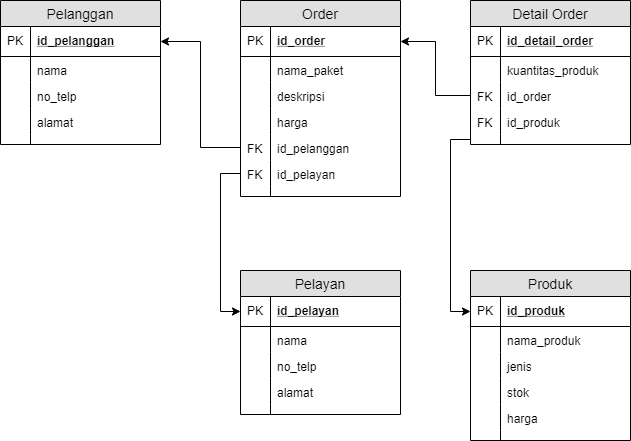
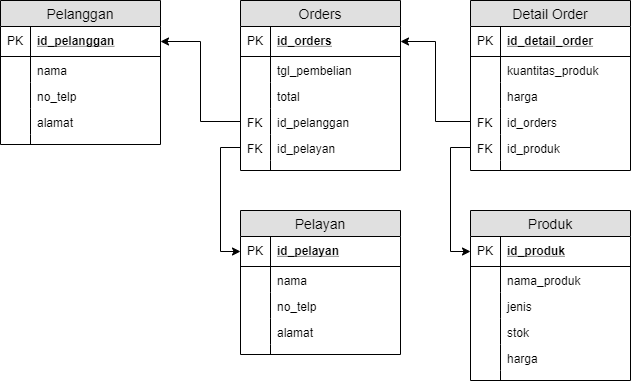
add table init

diff --git a/src/yez/chicken/management/DBManager.java b/src/yez/chicken/management/DBManager.java
@@ -4,30 +4,21 @@ import java.io.File;
 
 public class DBManager
 {
-    boolean isDBExist = false;
-    String dbName = "YEZ.db";
+    public Connection conn = null;
+    public Statement stmt = null;
+    
+    private boolean isDBExist = false;
+    private String dbName = "YEZ.db";
     
     public void ConnectDB()
     {
-        Connection conn = null;
-        Statement stmt = null;
-        File file = new File(dbName);
-        
-        if(file.exists())
-        {
-            System.out.println("Database already exist!");
-            isDBExist = true;
-        }
-        else
-            isDBExist = false;
-
-        
         try
         {
             Class.forName("org.sqlite.JDBC");
             conn = DriverManager.getConnection("jdbc:sqlite:YEZ.db");
 
-            makeTables(conn, stmt);
+            initTables();
+            addCustomer("ivan", "1234", "tubais");
         }catch(Exception e)
         {
             System.err.println(e.getClass().getName() + ": " + e.getMessage());
@@ -37,49 +28,106 @@ public class DBManager
         System.out.println("Opened database susccesfully!");
     }
     
-    private void makeTables(Connection conn, Statement stmt) throws Exception
+    // Database table initialization
+    private void initTables() throws SQLException
     {
         stmt = conn.createStatement();
         String sql = "CREATE TABLE IF NOT EXISTS PELANGGAN " +
-                        "(ID_PELANGGAN  INTEGER PRIMARY KEY AUTOINCREMENT NOT NULL," +
-                        " NAMA          TEXT                              NOT NULL," +
-                        " NO_TELP       CHAR(12)                                  ," +
-                        " ADDRESS       CHAR(50)                                  )";
+                     "(ID_PELANGGAN  INTEGER PRIMARY KEY AUTOINCREMENT NOT NULL," +
+                     " NAMA          TEXT                              NOT NULL," +
+                     " NO_TELP       CHAR(12)                                  ," +
+                     " ALAMAT        CHAR(50)                                  )";
         stmt.executeUpdate(sql);
         
-        sql =   "CREATE TABLE IF NOT EXISTS PELAYAN " +
-                "(ID_PELAYAN    INTEGER PRIMARY KEY AUTOINCREMENT NOT NULL," +
-                " NAMA          TEXT                              NOT NULL," +
-                " NO_TELP       CHAR(12)                                  ," +
-                " ADDRESS       CHAR(50)                                  )";
+        sql = "CREATE TABLE IF NOT EXISTS PELAYAN " +
+              "(ID_PELAYAN    INTEGER PRIMARY KEY AUTOINCREMENT NOT NULL," +
+              " NAMA          TEXT                              NOT NULL," +
+              " NO_TELP       CHAR(12)                                  ," +
+              " ALAMAT        CHAR(50)                                  )";
         stmt.executeUpdate(sql);
         
-        sql =   "CREATE TABLE IF NOT EXISTS PRODUK " +
-                "(ID_PRODUK     INTEGER PRIMARY KEY AUTOINCREMENT NOT NULL," +
-                " NAMA_PRODUK   TEXT                              NOT NULL," +
-                " JENIS         CHAR(12)                          NOT NULL," +
-                " STOK          INTEGER                           NOT NULL," +
-                " HARGA         INTEGER                           NOT NULL)";
+        sql = "CREATE TABLE IF NOT EXISTS PRODUK " +
+              "(ID_PRODUK     INTEGER PRIMARY KEY AUTOINCREMENT NOT NULL," +
+              " NAMA_PRODUK   TEXT                              NOT NULL," +
+              " JENIS         CHAR(12)                          NOT NULL," +
+              " STOK          INTEGER                           NOT NULL," +
+              " HARGA         INTEGER                           NOT NULL)";
         stmt.executeUpdate(sql);
         
-        sql =   "CREATE TABLE IF NOT EXISTS ORDERS " +
-                "(ID_ORDERS     INTEGER PRIMARY KEY AUTOINCREMENT NOT NULL," +
-                " NAMA_PAKET    TEXT                              NOT NULL," +
-                " DESKRIPSI     TEXT                              NOT NULL," +
-                " HARGA         INTEGER                           NOT NULL," +
-                " ID_PELANGGAN  INTEGER                           NOT NULL," +
-                " ID_PELAYAN  INTEGER                           NOT NULL," +
-                " FOREIGN KEY(ID_PELANGGAN)   REFERENCES PELANGGAN(ID_PELANGGAN)," +
-                " FOREIGN KEY(ID_PELAYAN)     REFERENCES PELAYAN(ID_PELAYAN))";
+        sql = "CREATE TABLE IF NOT EXISTS ORDERS " +
+              "(ID_ORDERS     INTEGER PRIMARY KEY AUTOINCREMENT NOT NULL," +
+              " TGL_PEMBELIAN DATE                              NOT NULL," +
+              " TOTAL         INTEGER                           NOT NULL," +
+              " ID_PELANGGAN  INTEGER                           NOT NULL," +
+              " ID_PELAYAN  INTEGER                           NOT NULL," +
+              " FOREIGN KEY(ID_PELANGGAN)   REFERENCES PELANGGAN(ID_PELANGGAN)," +
+              " FOREIGN KEY(ID_PELAYAN)     REFERENCES PELAYAN(ID_PELAYAN))";
         stmt.executeUpdate(sql);
         
-        sql =   "CREATE TABLE IF NOT EXISTS DETAIL_ORDER " +
-                "(ID_DETAIL_ORDERS     INTEGER PRIMARY KEY AUTOINCREMENT NOT NULL," +
-                " KUANTITAS_PRODUK     INTEGER                           NOT NULL," +
-                " ID_ORDERS            INTEGER                           NOT NULL," +
-                " ID_PRODUK            INTEGER                           NOT NULL," +
-                " FOREIGN KEY(ID_ORDERS)   REFERENCES ORDERS(ID_ORDERS)," +
-                " FOREIGN KEY(ID_PRODUK)   REFERENCES PRODUK(ID_PRODUK))";
+        sql = "CREATE TABLE IF NOT EXISTS DETAIL_ORDER " +
+              "(ID_DETAIL_ORDERS     INTEGER PRIMARY KEY AUTOINCREMENT NOT NULL," +
+              " KUANTITAS_PRODUK     INTEGER                           NOT NULL," +
+              " HARGA                INTEGER                           NOT NULL," +
+              " ID_ORDERS            INTEGER                           NOT NULL," +
+              " ID_PRODUK            INTEGER                           NOT NULL," +
+              " FOREIGN KEY(ID_ORDERS)   REFERENCES ORDERS(ID_ORDERS)," +
+              " FOREIGN KEY(ID_PRODUK)   REFERENCES PRODUK(ID_PRODUK))";
         stmt.executeUpdate(sql);
+        
+        // PRODUK COLUMNS ----
+        
+        sql = "INSERT OR REPLACE INTO PRODUK" +
+              "(ID_PRODUK, NAMA_PRODUK, JENIS, STOK, HARGA)" +
+              "VALUES (1, 'Nasi Putih', 'Makanan', 25, 2000)";
+        stmt.executeUpdate(sql);
+        
+        sql = "INSERT OR REPLACE INTO PRODUK" +
+              "(ID_PRODUK, NAMA_PRODUK, JENIS, STOK, HARGA)" +
+              "VALUES (2, 'Ayam Bakar Paha', 'Makanan', 12, 8000)";
+        stmt.executeUpdate(sql);
+        
+        sql = "INSERT OR REPLACE INTO PRODUK" +
+              "(ID_PRODUK, NAMA_PRODUK, JENIS, STOK, HARGA)" +
+              "VALUES (3, 'Ayam Goreng Paha', 'Makanan', 4, 8000)";
+        stmt.executeUpdate(sql);
+        
+        sql = "INSERT OR REPLACE INTO PRODUK" +
+              "(ID_PRODUK, NAMA_PRODUK, JENIS, STOK, HARGA)" +
+              "VALUES (4, 'Ayam Bakar Dada', 'Makanan', 16, 10000)";
+        stmt.executeUpdate(sql);
+        
+        sql = "INSERT OR REPLACE INTO PRODUK" +
+              "(ID_PRODUK, NAMA_PRODUK, JENIS, STOK, HARGA)" +
+              "VALUES (5, 'Ayam Goren Dada', 'Makanan', 13, 10000)";
+        stmt.executeUpdate(sql);
+        
+        sql = "INSERT OR REPLACE INTO PRODUK" +
+              "(ID_PRODUK, NAMA_PRODUK, JENIS, STOK, HARGA)" +
+              "VALUES (6, 'Teh Manis', 'Minuman', 7, 3000)";
+        stmt.executeUpdate(sql);
+        
+        sql = "INSERT OR REPLACE INTO PRODUK" +
+              "(ID_PRODUK, NAMA_PRODUK, JENIS, STOK, HARGA)" +
+              "VALUES (7, 'Nutrisasri', 'Minuman', 12, 3000)";
+        stmt.executeUpdate(sql);
+    }
+    
+    private void addCustomer(String nama, String telp, String alamat) throws SQLException
+    {
+        stmt = conn.createStatement();
+        
+        String sql = "INSERT INTO PELANGGAN " +
+                     "(NAMA, NO_TELP, ALAMAT) " +
+                     "VALUES ('" + nama + "', '" + telp + "', '" + alamat + "')";
+        stmt.executeUpdate(sql);
+    }
+    
+    private void addOrders() throws SQLException
+    {
+        stmt = conn.createStatement();
+        
+        String sql = "INSERT INTO ORDERS " +
+                     " (TGL_PEMBELIAN, TOTAL, ID_PELANGGAN, ID_PELAYAN) " +
+                     " VALUES ()";
     }
 }

diff --git a/src/yez/chicken/management/YEZChickenManagement.java b/src/yez/chicken/management/YEZChickenManagement.java
@@ -1,4 +1,5 @@
 package yez.chicken.management;
+import java.io.IOException;
 import java.util.Scanner;
 
 public class YEZChickenManagement
@@ -31,6 +32,7 @@ public class YEZChickenManagement
                     }
                     break;
                 case 2:
+                    menu.clearScreen();
                     menu.productMenu();
                     opt = scn.nextInt();
                     

diff --git a/src/yez/chicken/management/MenuOption.java b/src/yez/chicken/management/MenuOption.java
@@ -1,5 +1,7 @@
 package yez.chicken.management;
 
+import java.io.IOException;
+
 public class MenuOption
 {
     public void mainMenu()
@@ -64,5 +66,10 @@ public class MenuOption
     public void delProductMenu()
     {
         
+    }
+    
+    public static void clearScreen()
+    {
+        for (int i = 0; i < 50; ++i) System.out.println();
     }
 }
